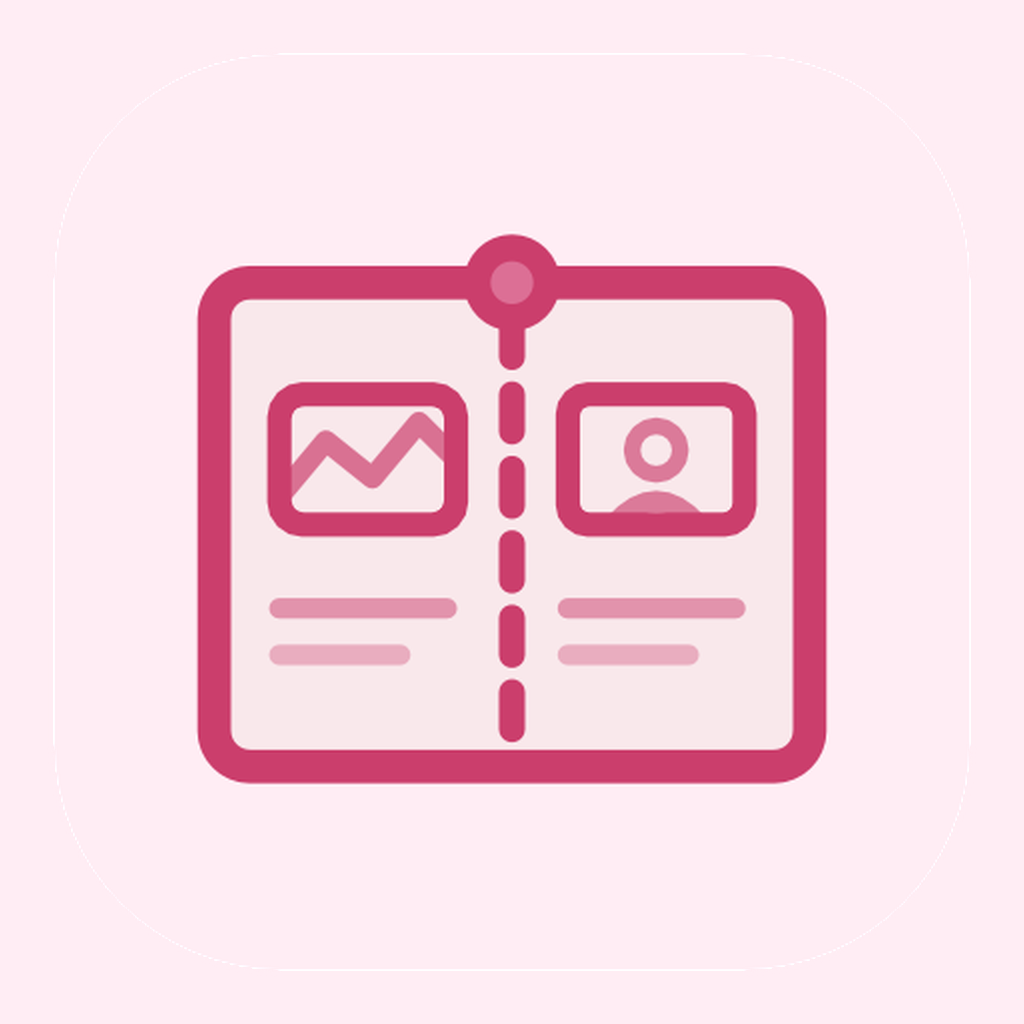
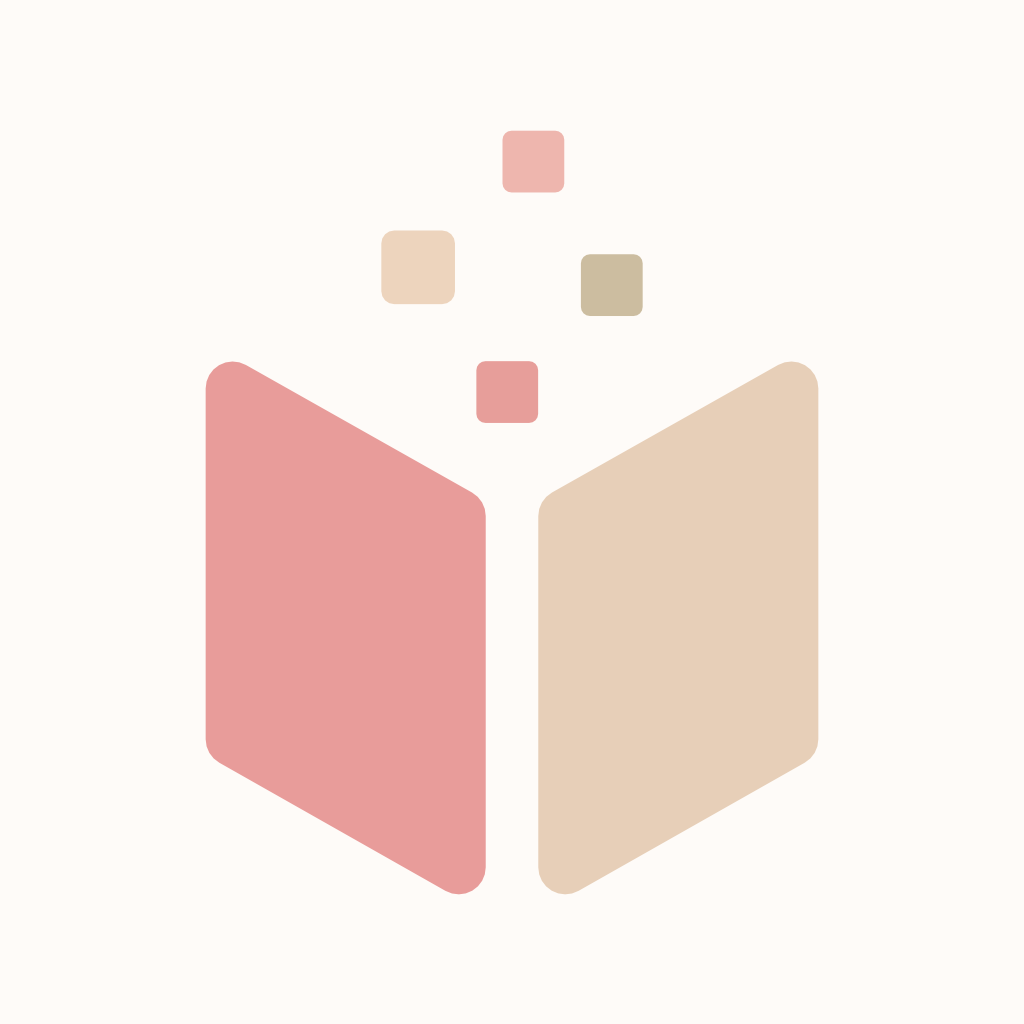
update: Web/Native のアプリアイコンを新デザインに差し替え

Changed region(s): [[0.1875, 0.2188, 0.8125, 0.875], [0.4688, 0.125, 0.5625, 0.1875]]

diff --git a/apps/native/app.config.ts b/apps/native/app.config.ts
@@ -20,11 +20,16 @@ export default ({ config }: ConfigContext): ExpoConfig => ({
       UIBackgroundModes: ['fetch'],
     },
   },
+  notification: {
+    icon: './assets/notification-icon.png',
+  },
   android: {
     package: 'com.r.t7maru.albumnative',
     adaptiveIcon: {
       foregroundImage: './assets/android-icon-foreground.png',
-      backgroundColor: '#FFEDF4',
+      backgroundColor: '#FEFBF8',
+      backgroundImage: './assets/android-icon-background.png',
+      monochromeImage: './assets/android-icon-monochrome.png',
     },
     permissions: [
       'INTERNET',
